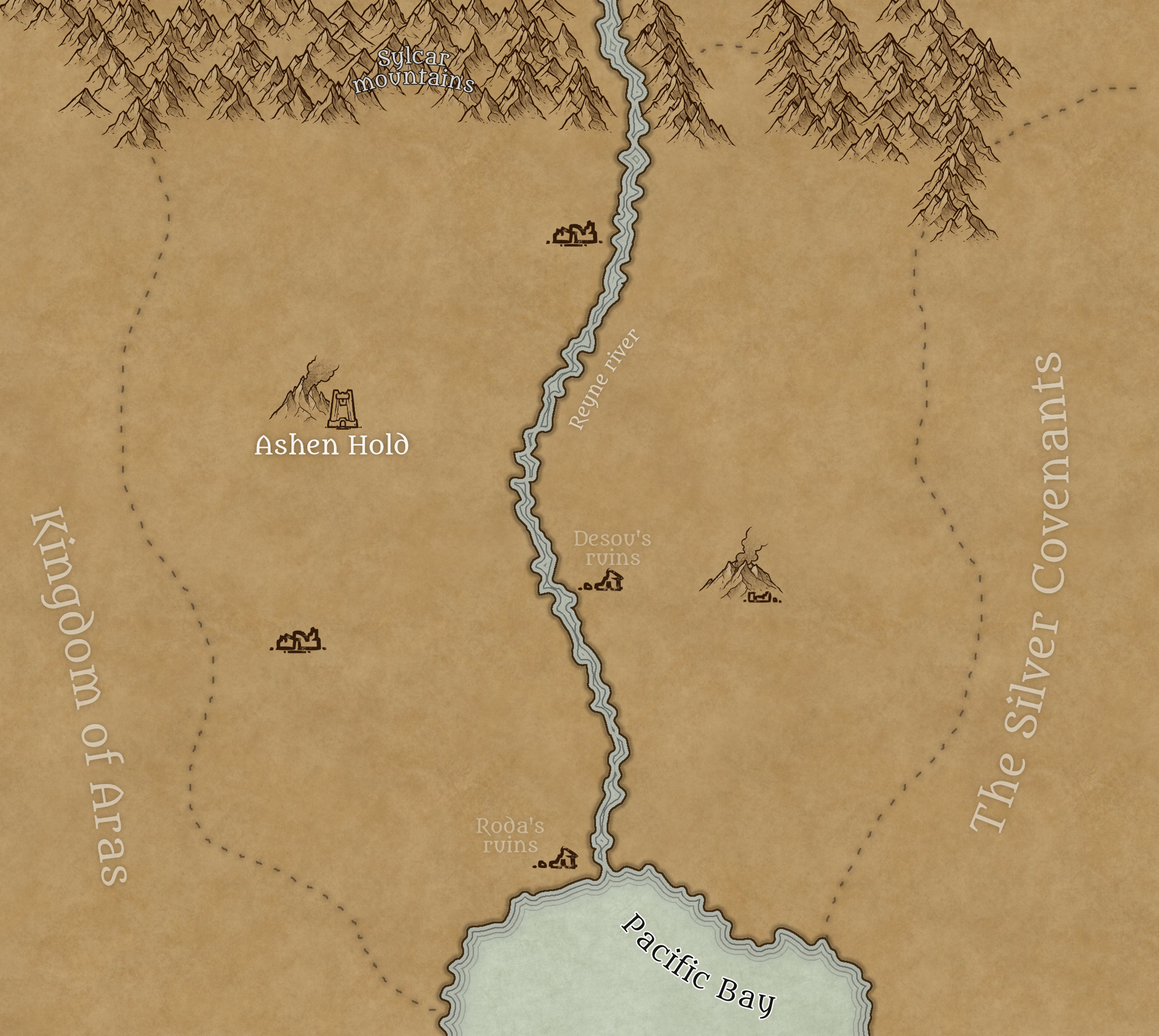
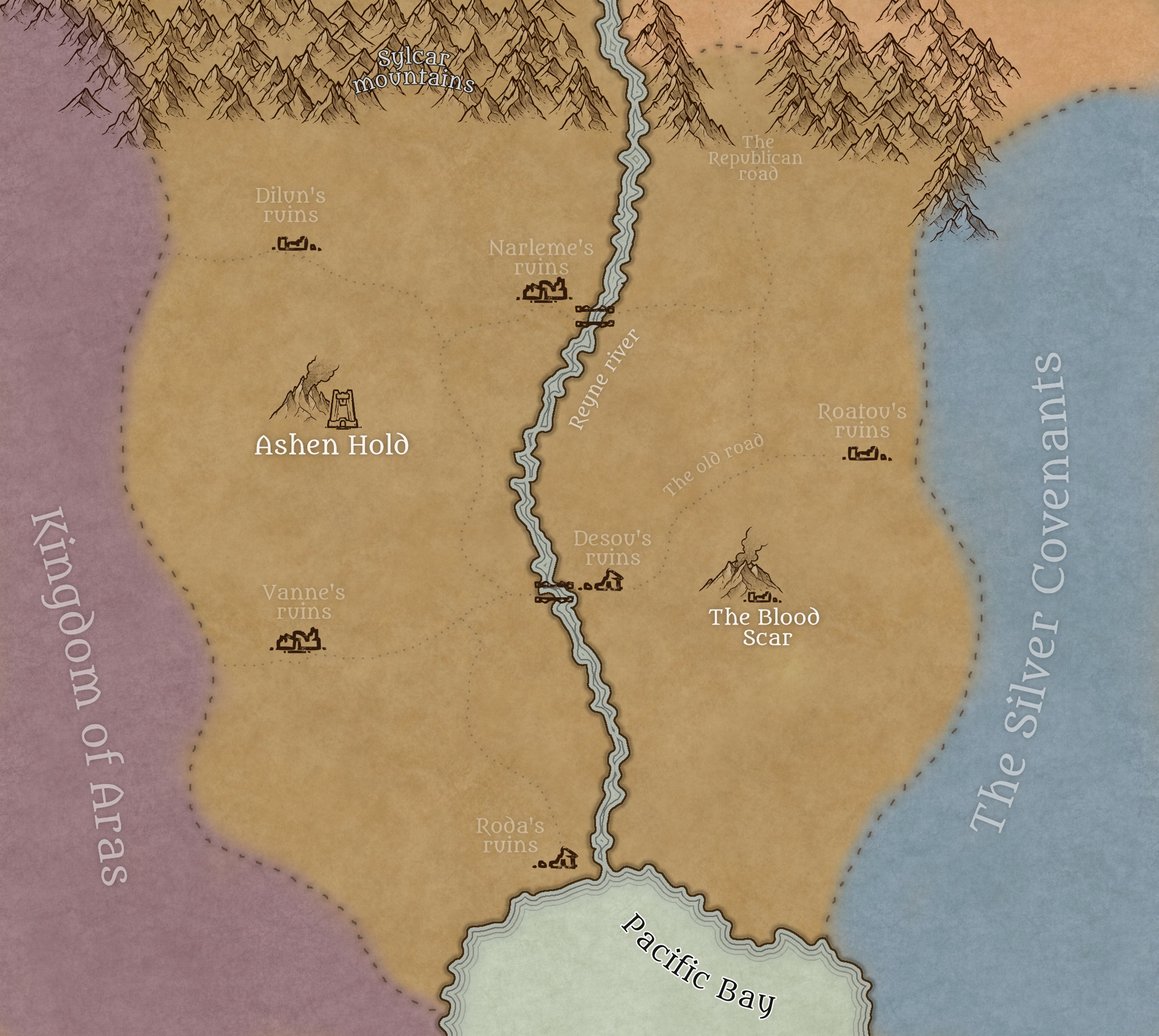
Added more cities in the Meredia map and started the description of Namerle

diff --git a/root/warhammers/aos/setting/calyster/nations/meredia.md b/root/warhammers/aos/setting/calyster/nations/meredia.md
@@ -9,7 +9,7 @@ title: Wastes of Meredia
 
 {% include expandable_image.html src="wastes_of_meredia_map.jpg" alt="Wastes of Meredia map" class="calyster-map"  %}
 
-The Ashen Wastes are a desolate land, covered by ruins of once great cities, unfortunate bystanders in a proxy war between two rival powers that unleashed a magical cataclysm . It was known during the Age of Myth as the Republic of Meredia, but now only ruins remain of that glorious long ended golden age, and the descendants of those enlightened and industrious people are now marauding, ignorant and barbaric tribes that serve the Blood God.
+The Ashen Wastes are a desolate land, covered by ruins of once great cities, unfortunate bystanders in a proxy war between two rival powers that unleashed a magical cataclysm. It was known during the Age of Myth as the Republic of Meredia, but now only ruins remain of that glorious long ended golden age, and the descendants of those enlightened and industrious people are now marauding, ignorant and barbaric tribes that serve the Blood God.
 
 ## The Republic of Meredia
 
@@ -20,7 +20,7 @@ Many were the cities of the Republic, following the path the of the Reyne river 
 More a federation of cities that collaborated under a central government than a unified country, the Republic of Meredia was a good example of what can be achieved when every person works to the betterment of the all, from the lowly peasants that harvested the fruits of the land to the High Senators that debated the laws of the Nation.
 Each city had it’s own local government and culture, even though the common ideals of freedom and progress were uphold in all of them.
 
-Not a big piece of land compared to its neighbors, the Republic always tried to bound the surrounding kingdoms with trade and a common wealth that would align the interests of everyone into not destroying that link. Where common interest was not enough, the cities would play the diplomatic game to distract, misdirect or present enough of a threat to prevent invasions., maintaining  neutral facade. 
+Not a big piece of land compared to its neighbors, the Republic always tried to bound the surrounding kingdoms with trade and a common wealth that would align the interests of everyone into not destroying that link. Where common interest was not enough, the cities would play the diplomatic game to distract, misdirect or present enough of a threat to prevent invasions., maintaining a neutral facade. 
 
 The Republic ended up in an Alliance with it’s sister republic to the north, the Republic of Varna, while playing the neighbor kingdoms of Aras and Azshijar against each other, a strategy that would prove to be its undoing, in the end.
 
@@ -28,15 +28,24 @@ The Republic ended up in an Alliance with it’s sister republic to the north, t
 
 #### Roda
 
-Chiefly among them the port city of Roda, made rich with the commerce that came from many different places of the realm, including the Great Parch, to the north. An intersection of cultures and religions, many were the wonders and events of culture that the citizenry could enjoy, funded by the  Houses of Commerce that were the governing body of the city. Huge markets could be found in the plazas of the city, where merchants from all over the realm would conduct their trade. 
+Chiefly among the big cities of Meredia was the port city of Roda, made rich with the commerce that came from many different places of the realm, including the Great Parch, to the north. An intersection of cultures and religions, many were the wonders and events of culture that the citizenry could enjoy, funded by the  Houses of Commerce that were the governing body of the city. Huge markets could be found in the plazas of the city, where merchants from all over the realm would conduct their trade. 
 
 The Fleet of the Houses protected the pacific bay from pirates and raiders, although it was never powerful enough to stop the neighboring kingdoms from blockading it if they put enough resources.
 As for land forces, they felt safe enough with a mercenary force and some militia to protect the peace of the city. When war came and the federated cities of the republic mustered their forces to defend their lands, the city of Roda would contribute mercenaries as well as the part of the fleet that could navigate the Reyne river.
+
+After a long blockade maintained by the Royal Fleet, Roda was, in the end, the city were the fiercest clash between the two rival armies of the Kingdom of Aras and the Silver Covenants happened. Rather than losing the city, the forces of Shublai, the Everstorm wizard, from the seventh Silver Tower, unleashed an apocalyptic magical storm that burned most of the city as well as the defending army from the Kingdom of Aras. Shortly after that, a treaty was signed between the two powers, to share what remained of the country between themselves stablishing the frontier to the Reyne river.
 
 #### Desou
 
 An agricultural city, the lands surrounding the city were plentiful oceans of wheat and other cereals  giving the city the sobriquet of the Golden city. Not only cereals but also cattle, and all kind of animals would be farmed. The region surrounding Desou was the bread basket of the republic. Before the confederation was founded, this land would see the most amount of battles to conquer it, for it was the most fertile and rich lands that could be found in the country.
 
-Safe inside the republic, the city could specialize into the agricultural industry, producing all kind of food derivatives like wine, cheese, cold cuts of meat, and exotic alcohols that would be traded in all the cities reachable by river, and beyond. The traders of Desou would even sell beyond its borders, to the cities along the river of the Varna Republic, to the north.
+Safe inside the republic, the city could specialize into the agricultural industry, producing all kind of food derivatives like wine, cheese, cold cuts of meat, and exotic alcohols that would be traded in all the cities reachable by river, and beyond. The traders of Desou would even sell beyond its borders, to the cities of the Varna Republic along the river, to the north.
 
-When the war between the Kingdoms of Aras and Azshijar blew out, the city of Desou was pillaged and burned to the ground and the city of Roda was blockaded, provoking a collapse of the Republic of Meredia.
+Desou was the first time that two armies from the Kingdom of Aras and the Silver Covenants met in battle during the War of the Wastes. The whole city was burnt to the ground, sealing the fate of Meredia, cut short from it's bread basket.
+
+#### Namerle
+
+So named the city of crossroads, for it sat at the juncture of several trade routes, connecting the eastern side of Meredia with the western side, acting as a trading post for the traders of the Republic of Varna, the Kingdom of Aras and the Silver Covenants of the east. It prided itself on being the second most important city of the republic, after Roda.
+
+Being the recipient of many invasions over its lifetime, the city had a military more than prepared to defend its territory. A strong and proud military tradition that ensured that citizens would be ready to defend themselves, as well as an industry that provided weapons and supplies, made possible with the wealth that the city's commerce enabled.
+
